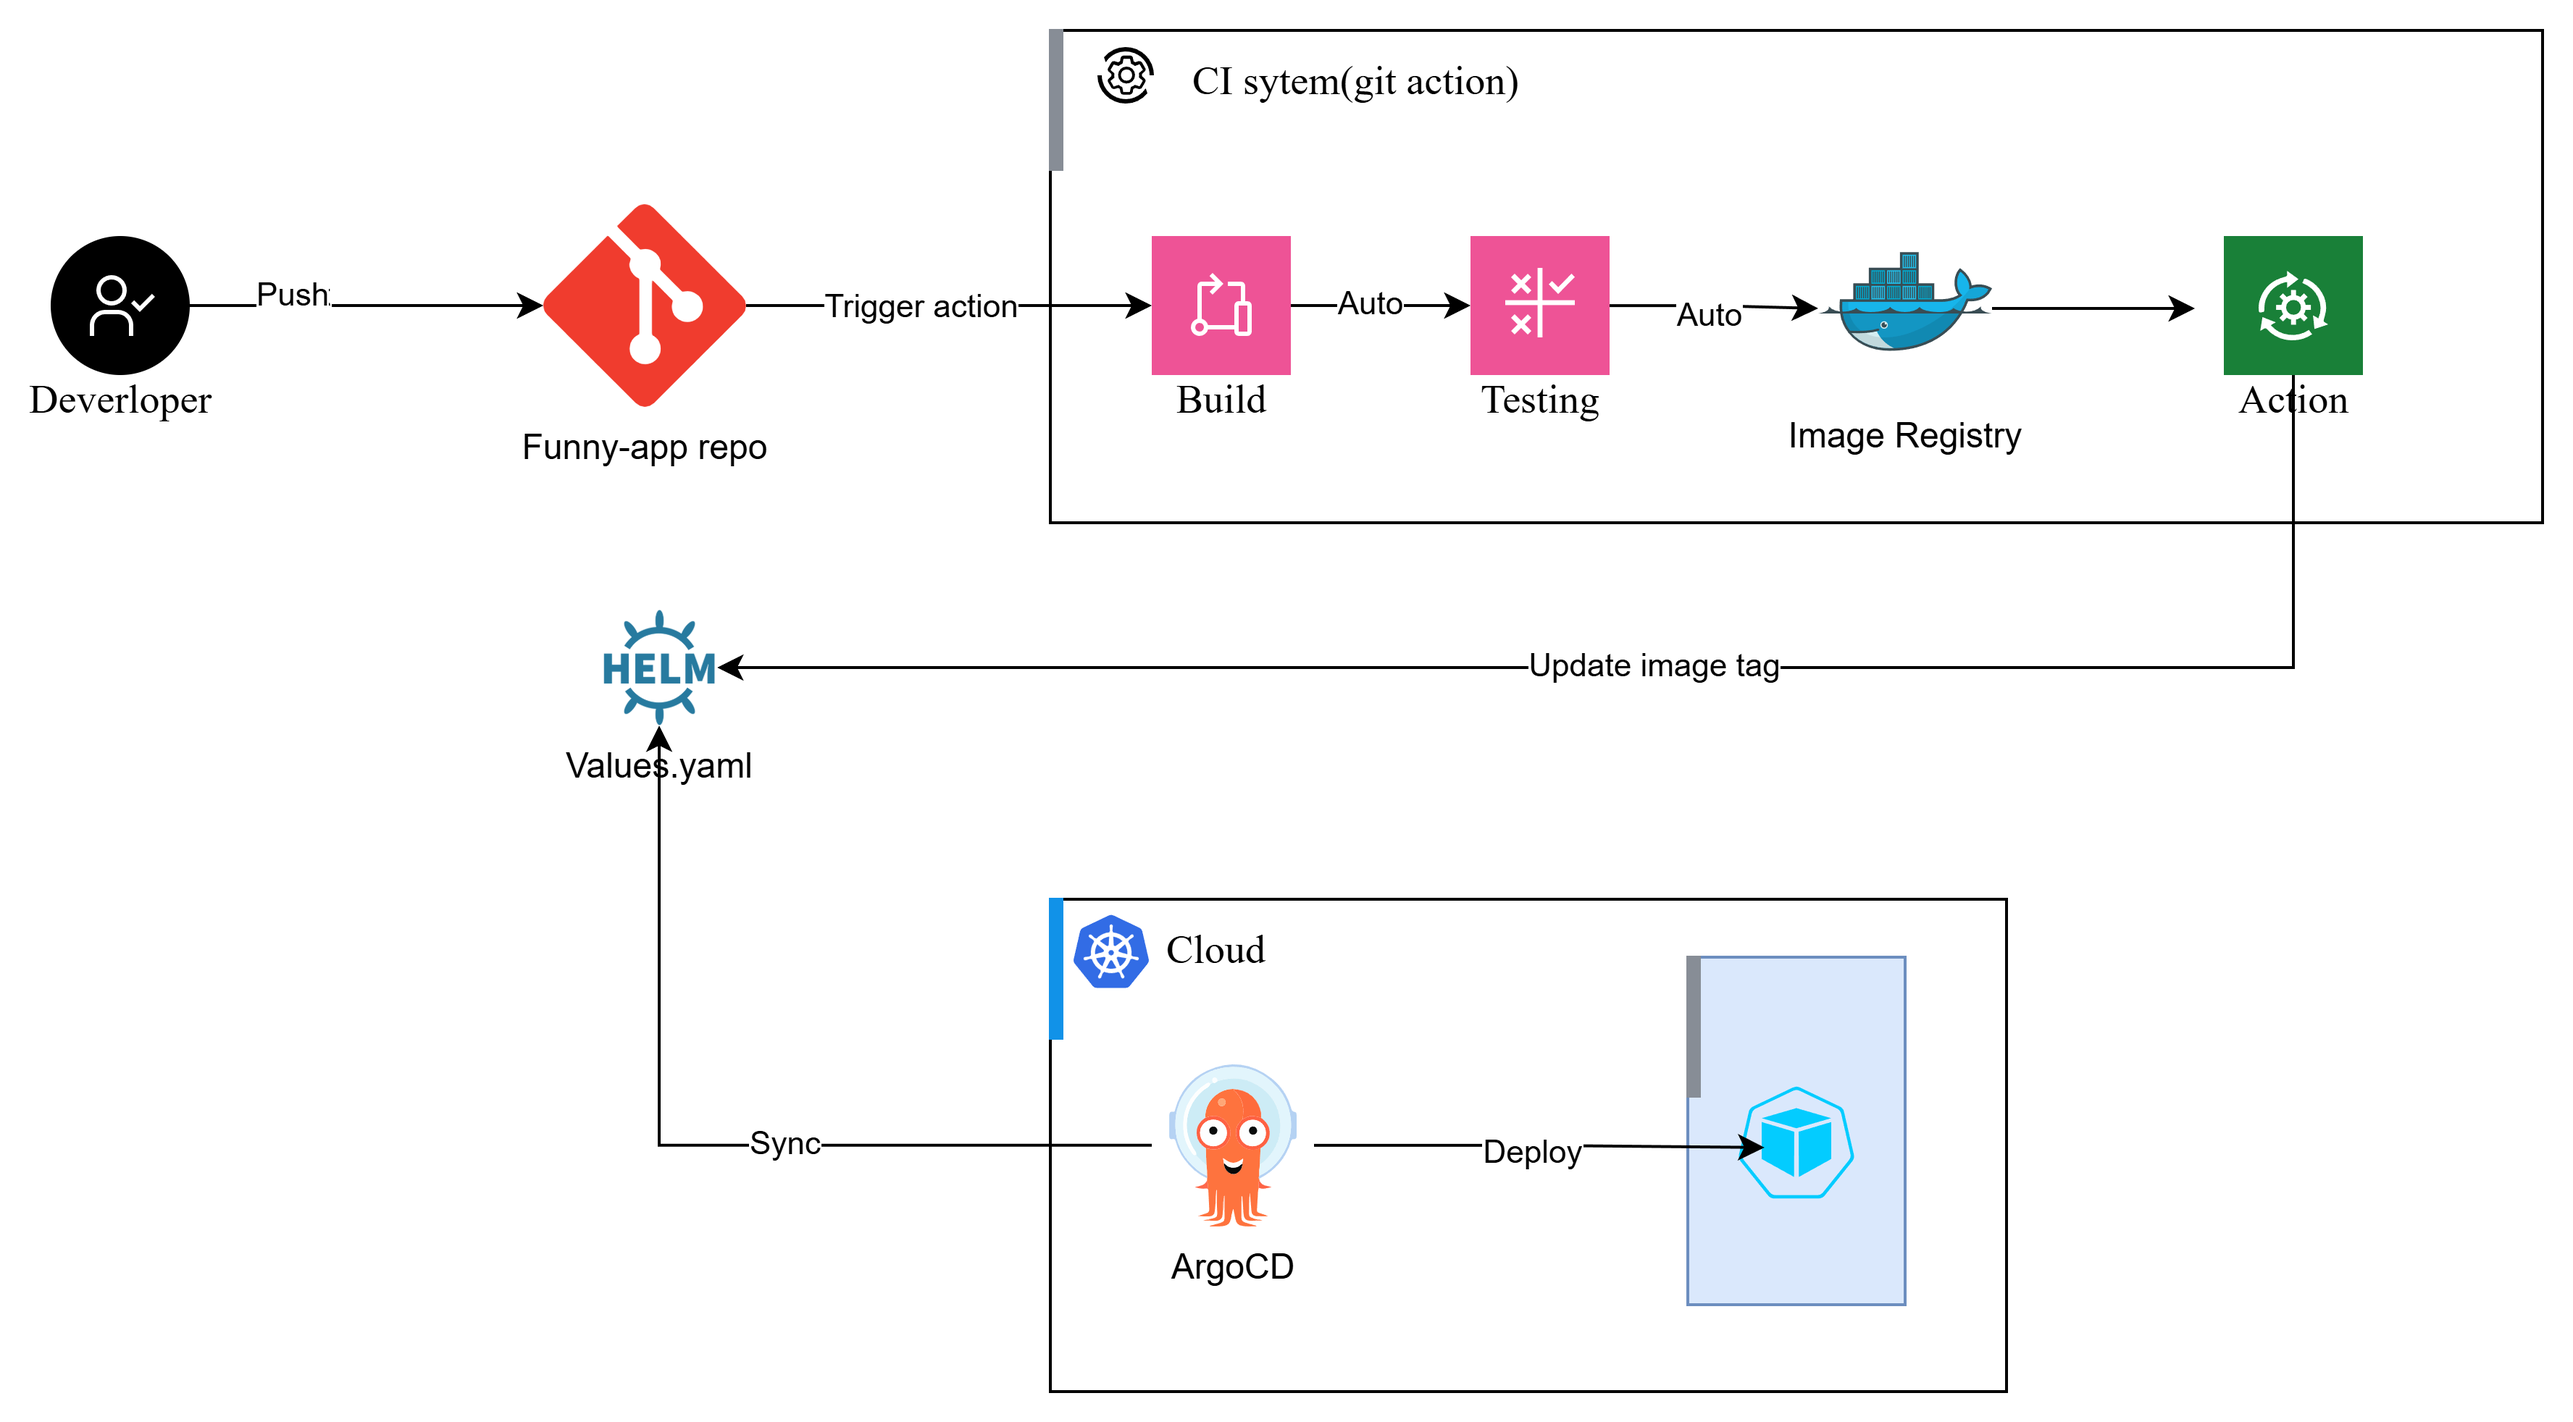
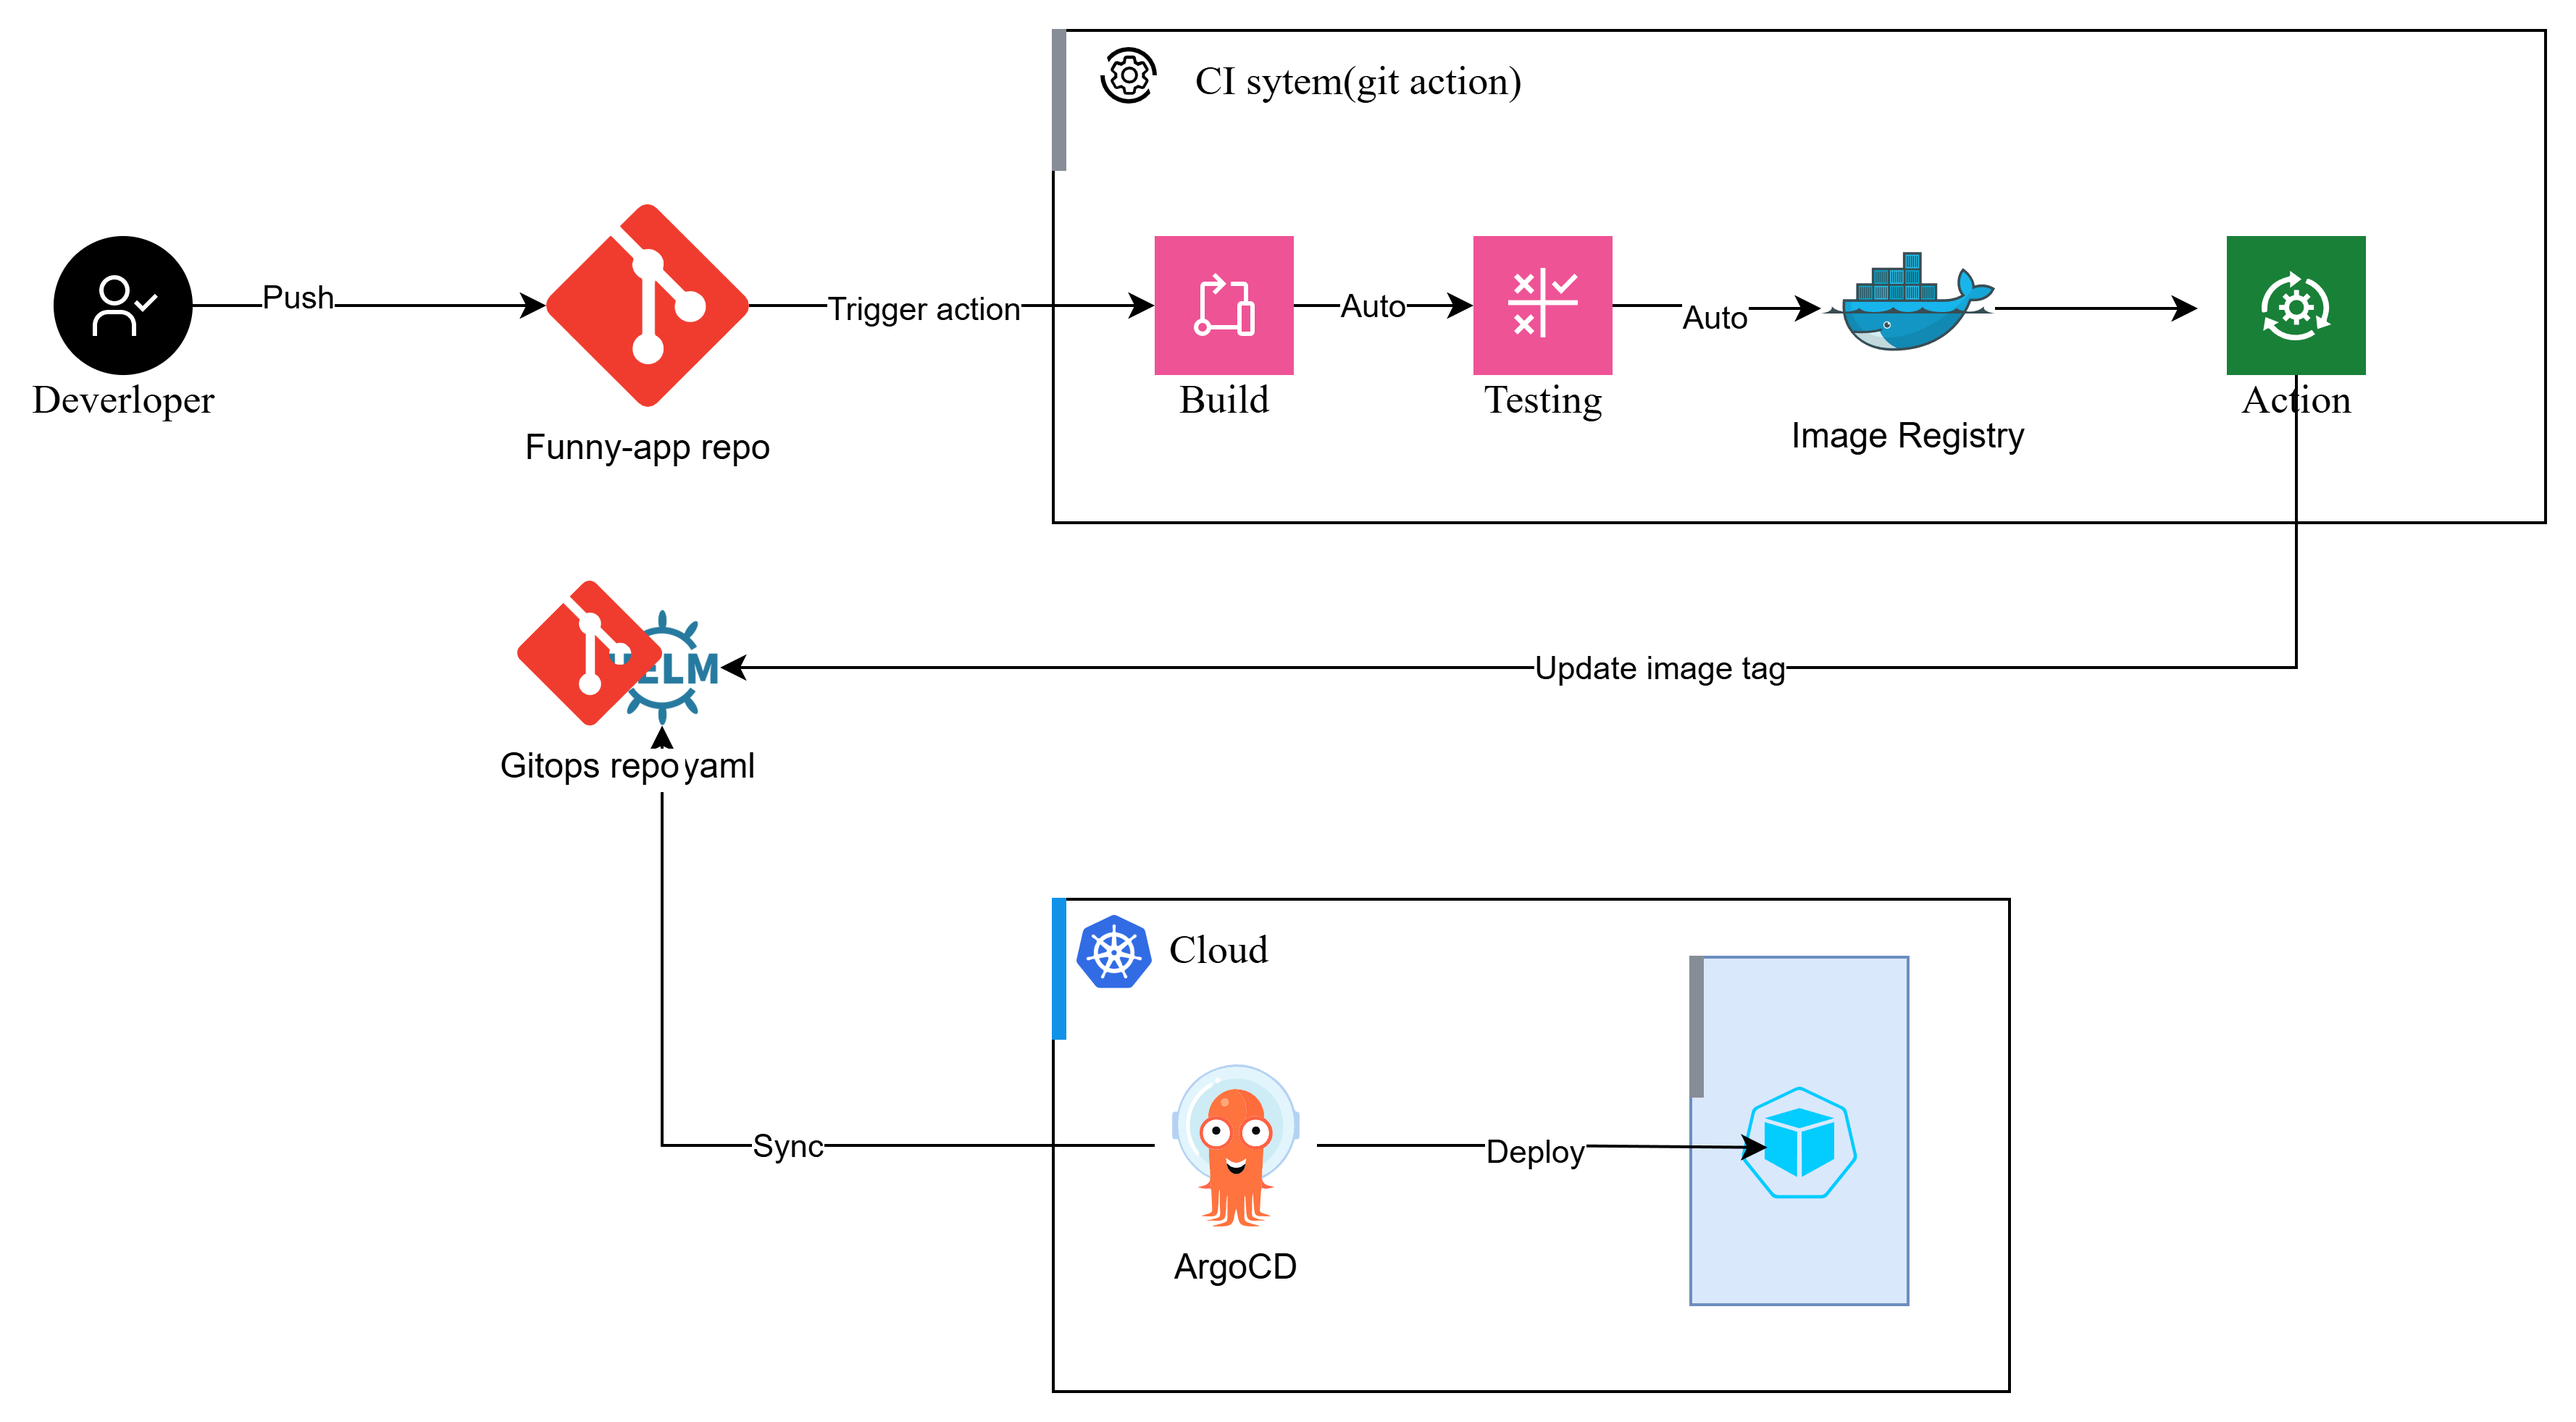
update resource memory requests and modify deployment architecture documentation

diff --git a/doc/Video Streaming System Architecture.md b/doc/Video Streaming System Architecture.md
@@ -64,7 +64,13 @@ Adopt Spring Boot monolith with clearly defined layers and caching mechanism, an
 
 ---
 
-### Gitops Continuous Deployment
+### Tradition Deployment (Current CICD) 
+
+![CiCd-Deployment.png](images/CiCd-Deployment.png)
+
+---
+
+### Gitops Continuous Deployment (Future improvement)
 
 ![Gitops-arch.png](images/Gitops-arch.png)
 
